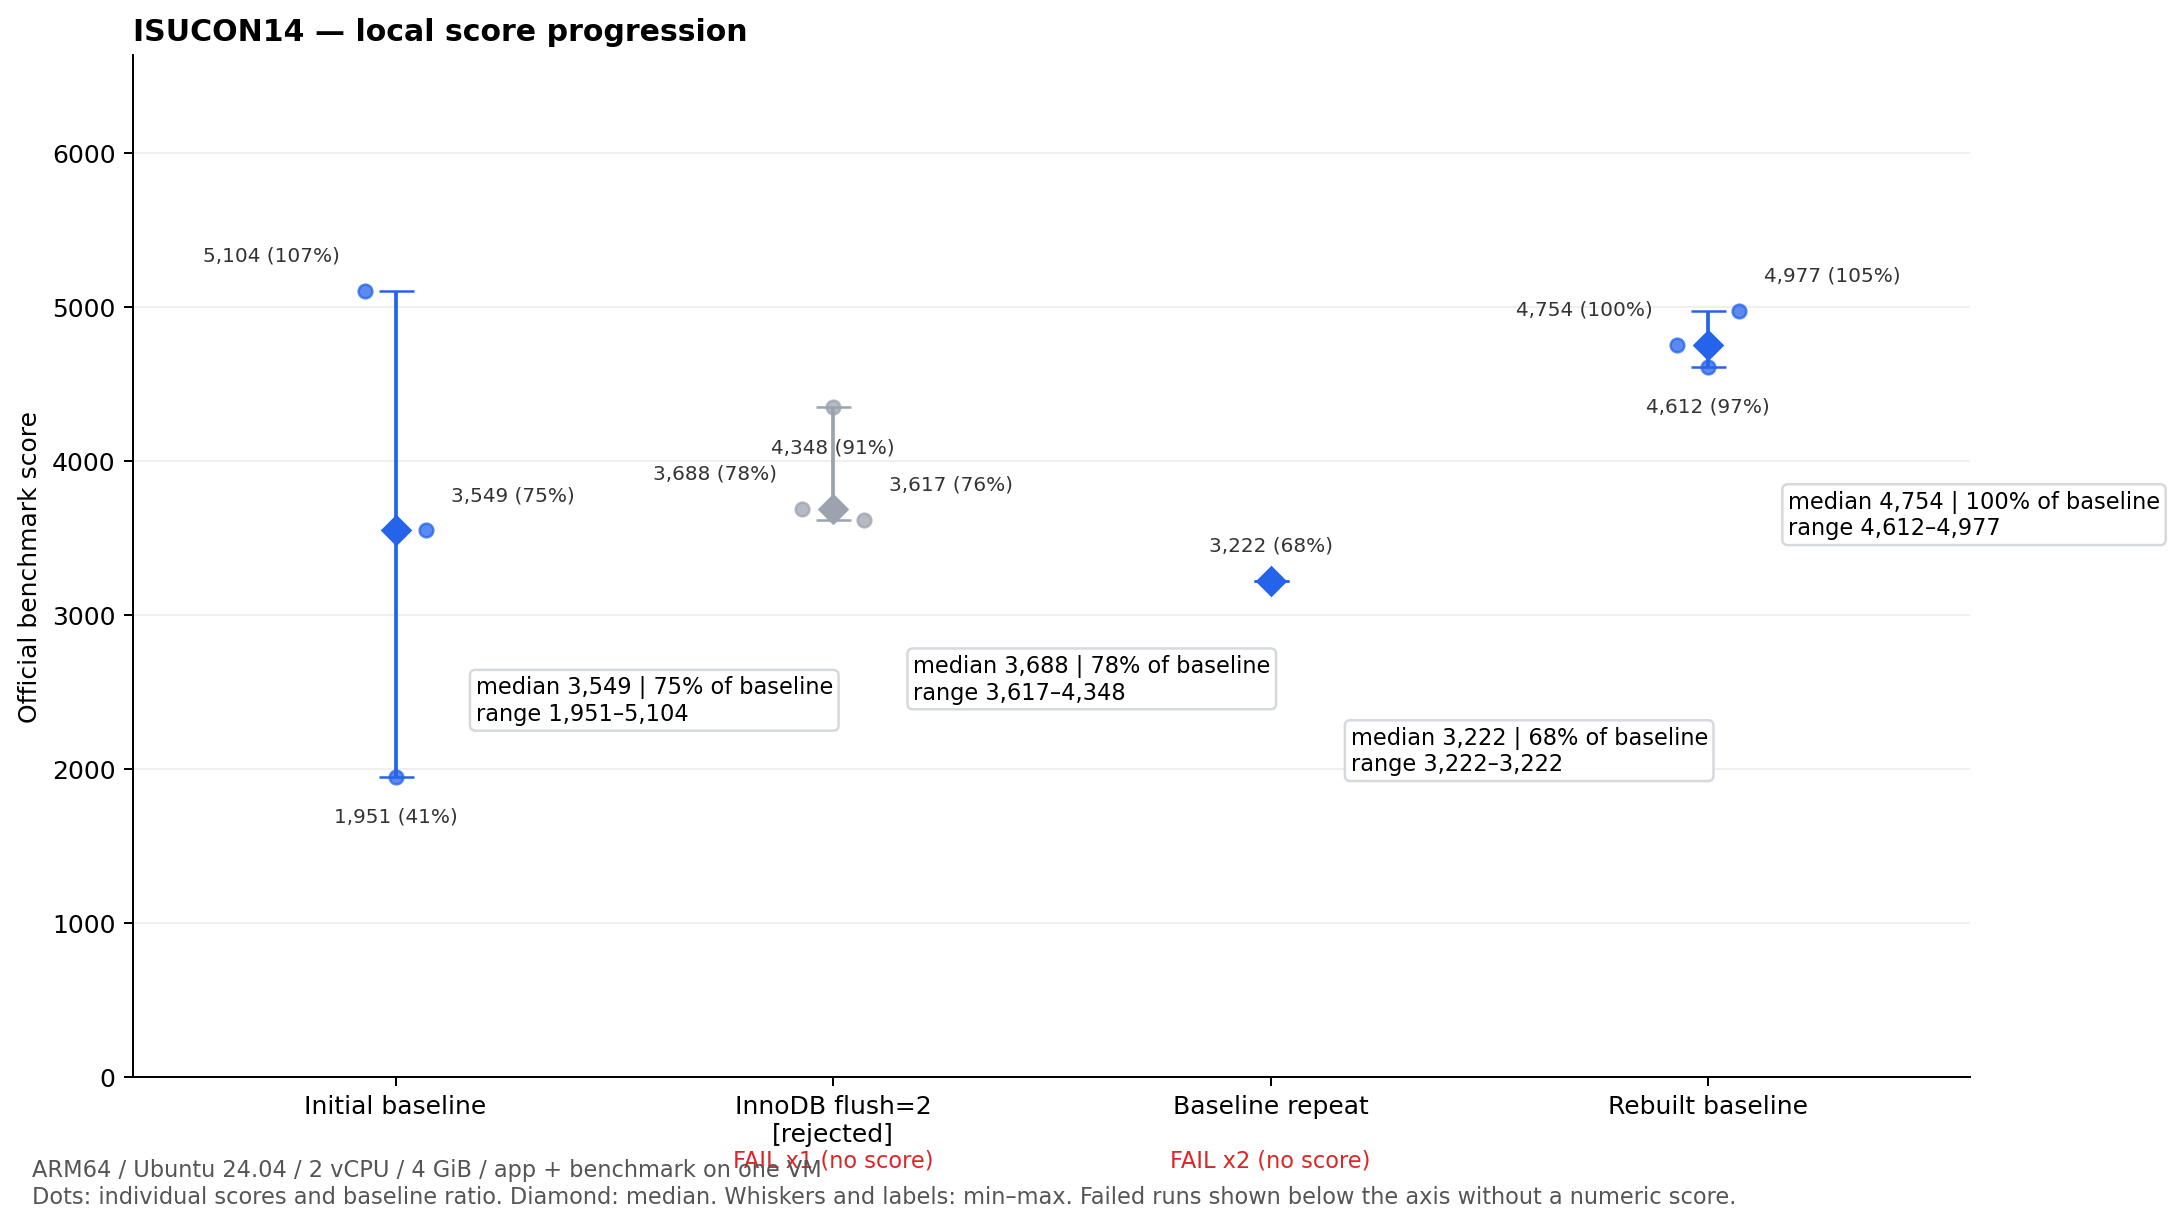
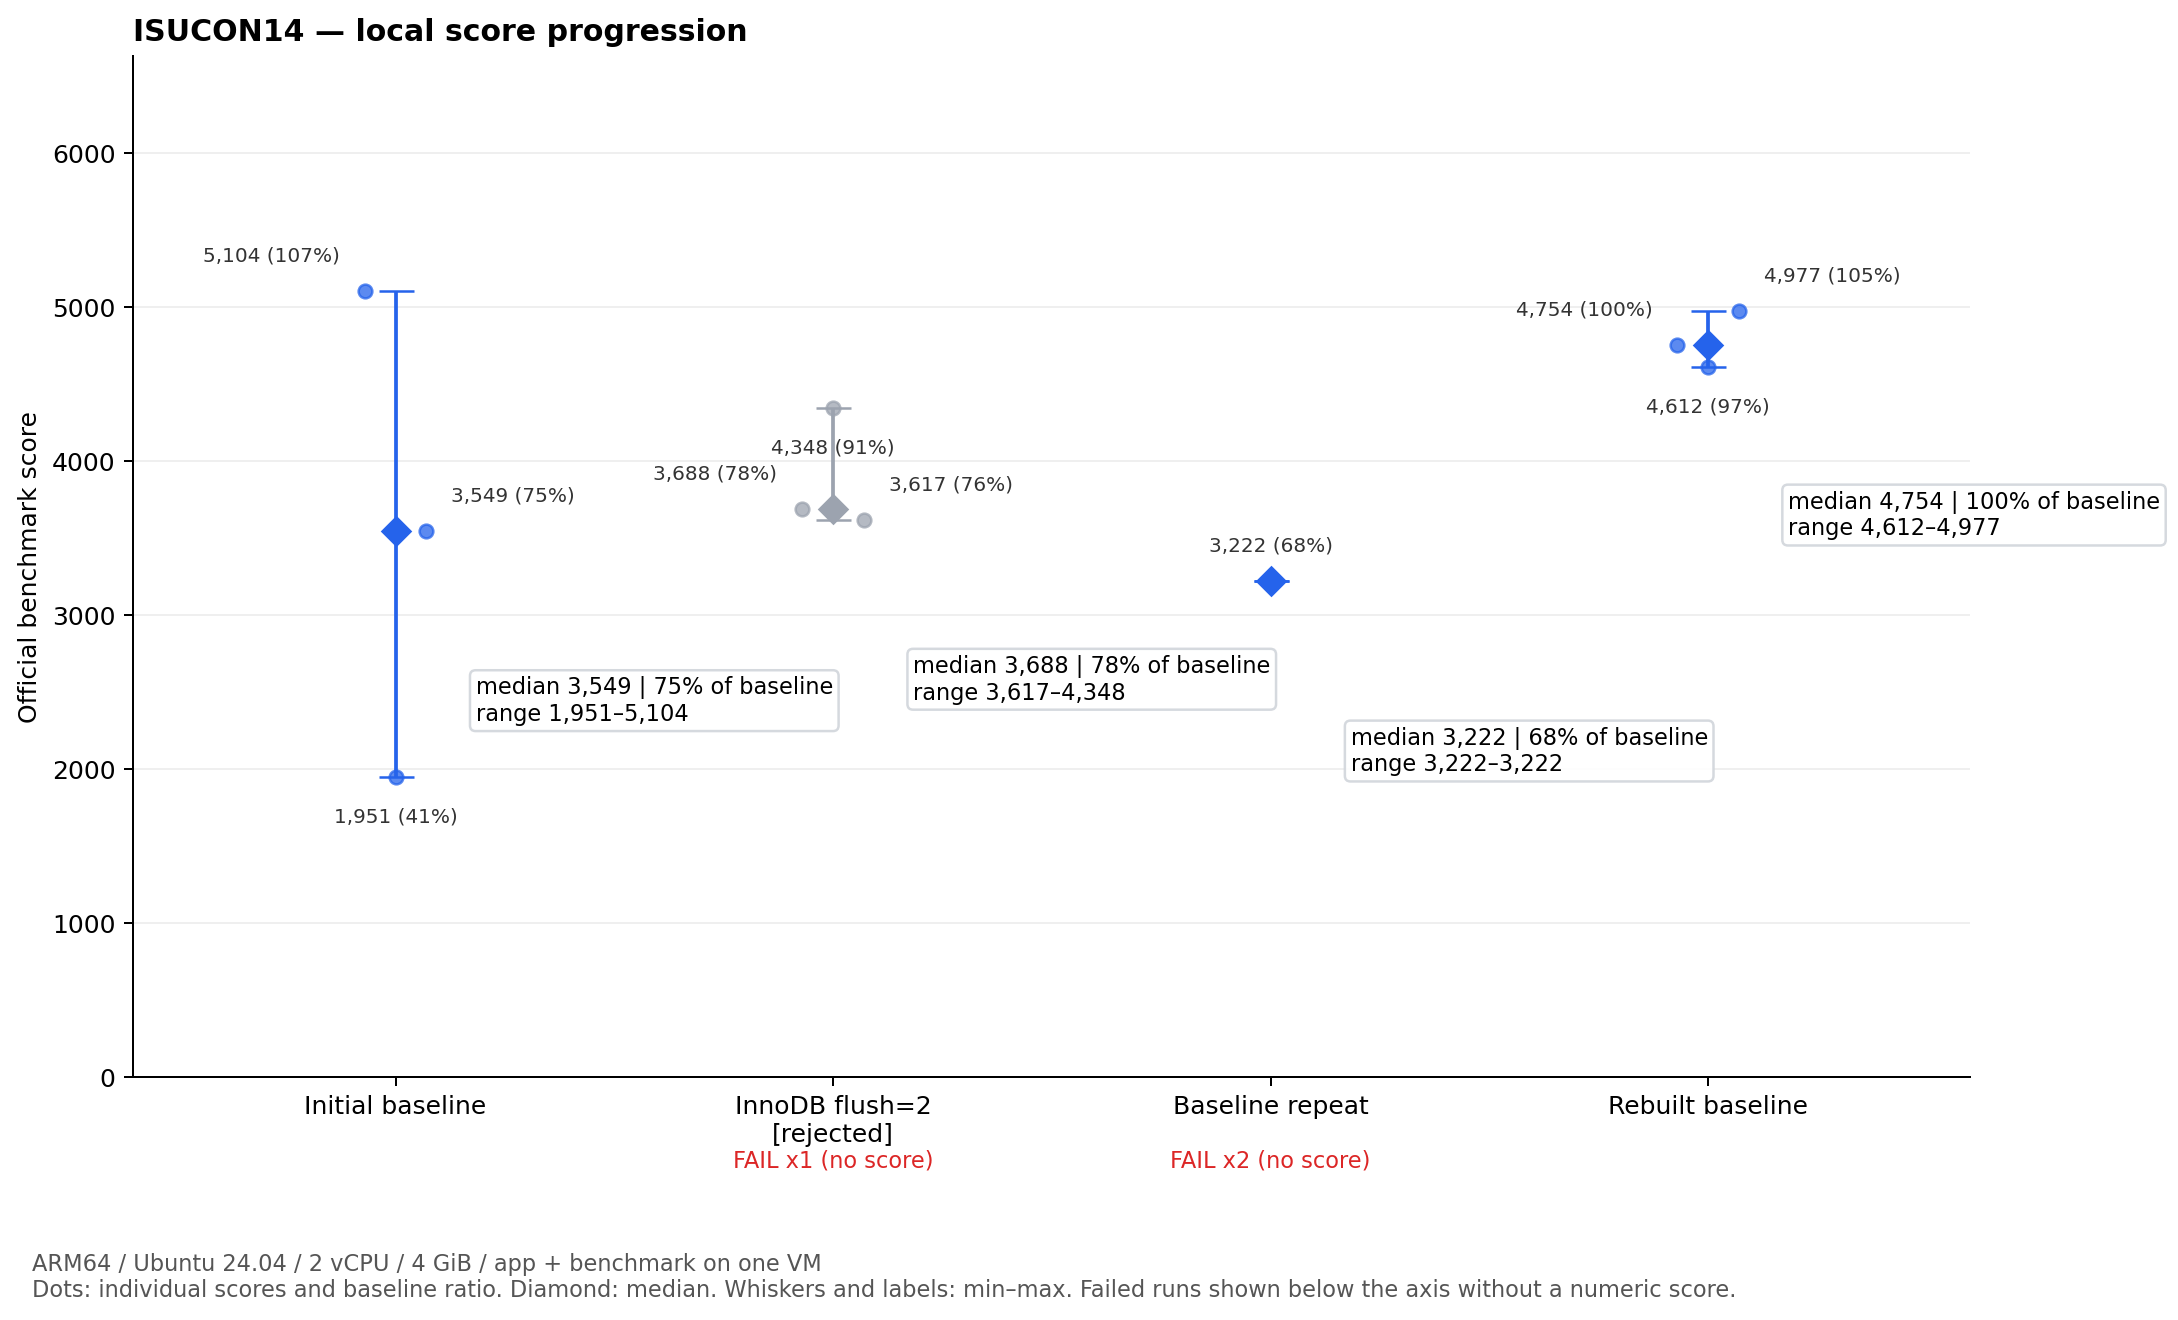
MySQL接続数を各試行で記録しグラフ余白を調整

diff --git a/local-benchmark/tools/run_benchmark.py b/local-benchmark/tools/run_benchmark.py
@@ -39,6 +39,16 @@ def database_snapshot(run, label):
     lines = [line.split("\t", 1) for line in result.stdout.splitlines() if "\t" in line]
     return {name: value for name, value in lines[1:]}
 
+def connection_snapshot(run, label):
+    query = "SHOW GLOBAL STATUS WHERE Variable_name IN ('Connections','Threads_created','Threads_connected','Threads_running');"
+    result = checked_multipass(
+        ["exec", "isucon14", "--", "sudo", "mysql", "--batch", "--raw", "-e", query],
+        capture_output=True, text=True,
+    )
+    (run / f"connection-status-{label}.tsv").write_text(result.stdout)
+    lines = [line.split("\t", 1) for line in result.stdout.splitlines() if "\t" in line]
+    return {name: value for name, value in lines[1:]}
+
 def main():
     parser = argparse.ArgumentParser()
     parser.add_argument("stage")
@@ -67,6 +77,7 @@ def main():
             checked_multipass(["exec", "isucon14", "--", "sudo", "mysql", "-e", "TRUNCATE TABLE performance_schema.events_statements_summary_by_digest"])
             checked_multipass(["exec", "isucon14", "--", "sudo", "truncate", "-s", "0", "/var/log/nginx/isucon-timing.log"])
             record["database_settings_before"] = database_snapshot(run, "before")
+            record["connection_status_before"] = connection_snapshot(run, "before")
         except subprocess.CalledProcessError as exc:
             record.update({"status": "failed", "score": None, "reported_score": None,
                            "failure_stage": "setup", "error": str(exc)})
@@ -87,6 +98,7 @@ def main():
                        "score": int(raw_score) if passed == "true" and proc.returncode == 0 else None,
                        "reported_score": int(raw_score) if raw_score is not None else None})
         record["database_settings_after"] = database_snapshot(run, "after")
+        record["connection_status_after"] = connection_snapshot(run, "after")
         (run / "result.json").write_text(json.dumps(record, ensure_ascii=False, indent=2))
         for remote, name in [("/tmp/isucon14-vmstat.log", "vmstat.log"), ("/tmp/isucon14-processes.log", "processes.log"), ("/var/log/nginx/isucon-timing.log", "http-timing.tsv")]:
             with (run / name).open("w") as f:

diff --git a/local-benchmark/tools/plot_scores.py b/local-benchmark/tools/plot_scores.py
@@ -58,6 +58,6 @@ ax.set_ylabel("Official benchmark score")
 ax.set_title("ISUCON14 — local score progression", loc="left", fontweight="bold")
 ax.grid(axis="y", alpha=.2)
 ax.spines[["top", "right"]].set_visible(False)
-fig.text(.01, -.02, "ARM64 / Ubuntu 24.04 / 2 vCPU / 4 GiB / app + benchmark on one VM\nDots: individual scores and baseline ratio. Diamond: median. Whiskers and labels: min–max. Failed runs shown below the axis without a numeric score.", fontsize=9, color="#555555")
+fig.text(.01, -.10, "ARM64 / Ubuntu 24.04 / 2 vCPU / 4 GiB / app + benchmark on one VM\nDots: individual scores and baseline ratio. Diamond: median. Whiskers and labels: min–max. Failed runs shown below the axis without a numeric score.", fontsize=9, color="#555555")
 fig.savefig(ROOT / "score-history.png", dpi=180, bbox_inches="tight")
 print(ROOT / "score-history.png")
